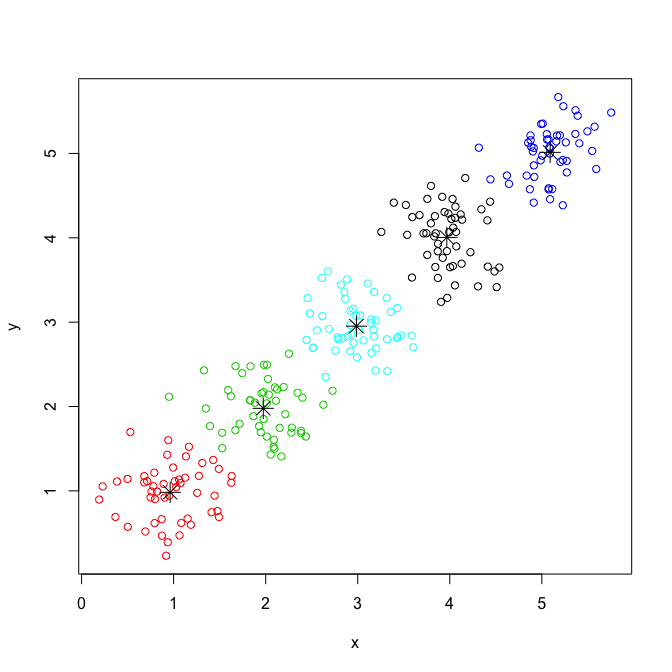
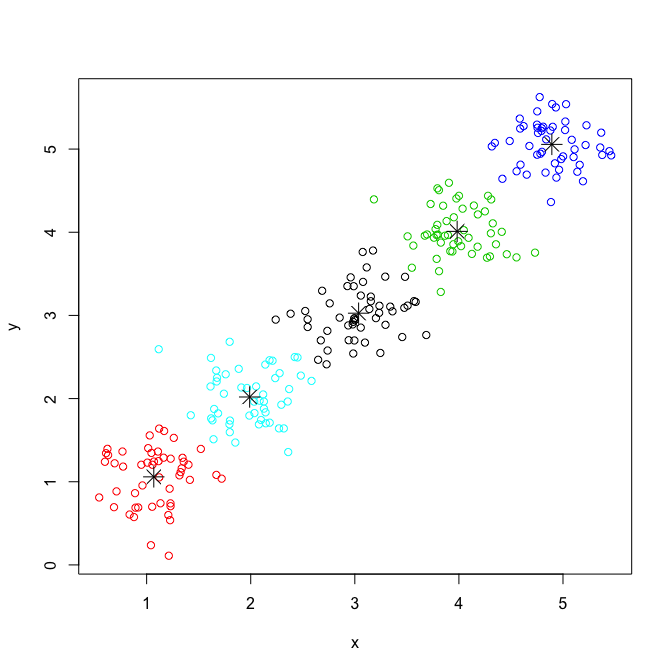
updated readme

diff --git a/README.md b/README.md
@@ -1,6 +1,10 @@
 
 <!-- badges: start -->
 
+[![Lifecycle:
+maturing](https://img.shields.io/badge/lifecycle-maturing-blue.svg)](https://www.tidyverse.org/lifecycle/#maturing)
+[![CRAN
+status](https://www.r-pkg.org/badges/version/tglkmeans)](https://CRAN.R-project.org/package=tglkmeans)
 [![Travis build
 status](https://travis-ci.com/tanaylab/tglkmeans.svg?branch=master)](https://travis-ci.org/tanaylab/tglkmeans)
 [![Codecov test
@@ -45,12 +49,12 @@ data <- rbind(matrix(rnorm(100, mean = 1, sd = 0.3), ncol = 2),
 colnames(data) <- c("x", "y")
 head(data)
 #>              x         y
-#> [1,] 0.9530238 0.9418766
-#> [2,] 1.0596298 1.1345286
-#> [3,] 0.7937045 0.6180217
-#> [4,] 1.3955778 1.7674674
-#> [5,] 0.9952293 1.2766231
-#> [6,] 1.3500851 1.9758635
+#> [1,] 0.6296324 1.3205426
+#> [2,] 1.2610985 1.5273401
+#> [3,] 0.8884797 0.8628733
+#> [4,] 1.1209760 1.0527145
+#> [5,] 1.0462635 1.3464143
+#> [6,] 1.1329243 0.7410431
 ```
 
 Cluster using kmeans++:
@@ -60,45 +64,45 @@ km <- TGL_kmeans(data, k=5, id_column = FALSE)
 km
 #> $cluster
 #>   1   2   3   4   5   6   7   8   9  10  11  12  13  14  15  16  17  18 
-#>   2   2   2   3   2   3   2   2   2   2   2   2   2   2   2   2   2   2 
+#>   2   2   2   2   2   2   2   2   2   2   2   2   2   2   2   2   2   2 
 #>  19  20  21  22  23  24  25  26  27  28  29  30  31  32  33  34  35  36 
 #>   2   2   2   2   2   2   2   2   2   2   2   2   2   2   2   2   2   2 
 #>  37  38  39  40  41  42  43  44  45  46  47  48  49  50  51  52  53  54 
-#>   2   2   2   2   2   2   2   2   2   2   2   2   2   2   3   3   3   3 
+#>   2   2   2   2   2   2   2   2   2   2   2   2   2   2   5   5   5   5 
 #>  55  56  57  58  59  60  61  62  63  64  65  66  67  68  69  70  71  72 
-#>   3   3   3   2   3   3   3   3   3   3   3   3   3   3   3   3   3   3 
+#>   5   5   5   5   5   5   5   5   5   5   5   5   5   5   5   5   5   5 
 #>  73  74  75  76  77  78  79  80  81  82  83  84  85  86  87  88  89  90 
-#>   3   3   3   3   3   5   3   3   3   3   2   3   3   3   3   3   3   3 
+#>   5   5   5   5   5   5   5   5   5   5   5   5   5   5   5   5   5   5 
 #>  91  92  93  94  95  96  97  98  99 100 101 102 103 104 105 106 107 108 
-#>   3   3   3   3   3   3   3   3   3   3   5   5   5   5   5   5   5   5 
+#>   5   5   5   5   5   5   5   5   5   5   1   1   1   1   1   1   1   1 
 #> 109 110 111 112 113 114 115 116 117 118 119 120 121 122 123 124 125 126 
-#>   5   5   5   5   5   5   5   5   5   5   5   5   5   5   5   5   5   5 
+#>   1   1   1   1   1   1   1   1   1   1   1   1   1   1   1   1   1   1 
 #> 127 128 129 130 131 132 133 134 135 136 137 138 139 140 141 142 143 144 
-#>   5   5   5   5   5   5   5   5   5   5   5   5   5   5   5   5   5   5 
+#>   1   1   1   1   1   1   1   1   1   1   1   1   1   1   1   1   1   1 
 #> 145 146 147 148 149 150 151 152 153 154 155 156 157 158 159 160 161 162 
-#>   5   5   5   5   5   5   1   1   1   1   1   1   1   1   1   1   1   1 
+#>   1   1   1   1   1   1   3   3   3   3   3   3   3   3   3   3   3   3 
 #> 163 164 165 166 167 168 169 170 171 172 173 174 175 176 177 178 179 180 
-#>   1   1   1   1   1   1   1   1   1   1   1   1   1   1   1   1   1   1 
+#>   3   3   3   3   3   3   3   3   3   3   3   3   3   3   3   3   3   3 
 #> 181 182 183 184 185 186 187 188 189 190 191 192 193 194 195 196 197 198 
-#>   1   1   1   1   1   1   1   1   1   1   1   1   1   1   1   1   1   1 
+#>   3   3   3   3   3   3   3   3   3   3   3   3   3   3   3   3   3   3 
 #> 199 200 201 202 203 204 205 206 207 208 209 210 211 212 213 214 215 216 
-#>   1   1   4   4   4   4   4   4   4   4   4   4   4   4   4   4   4   4 
+#>   3   3   4   4   4   4   4   4   4   4   4   4   4   4   4   4   4   4 
 #> 217 218 219 220 221 222 223 224 225 226 227 228 229 230 231 232 233 234 
 #>   4   4   4   4   4   4   4   4   4   4   4   4   4   4   4   4   4   4 
 #> 235 236 237 238 239 240 241 242 243 244 245 246 247 248 249 250 
-#>   4   4   4   4   4   4   4   4   4   4   1   4   4   4   4   4 
+#>   4   4   4   4   4   4   4   4   4   4   4   4   4   4   4   4 
 #> 
 #> $centers
-#>              x         y
-#> [1,] 3.9679554 4.0043440
-#> [2,] 0.9621912 0.9825687
-#> [3,] 1.9740058 1.9784214
-#> [4,] 5.0905957 5.0127778
-#> [5,] 2.9860275 2.9522712
+#>             x        y
+#> [1,] 3.036523 3.026682
+#> [2,] 1.068704 1.058818
+#> [3,] 3.983119 4.010461
+#> [4,] 4.892897 5.056413
+#> [5,] 1.989767 2.019150
 #> 
 #> $size
 #>  1  2  3  4  5 
-#> 51 50 49 49 51
+#> 50 50 50 50 50
 ```
 
 Plot the results:
